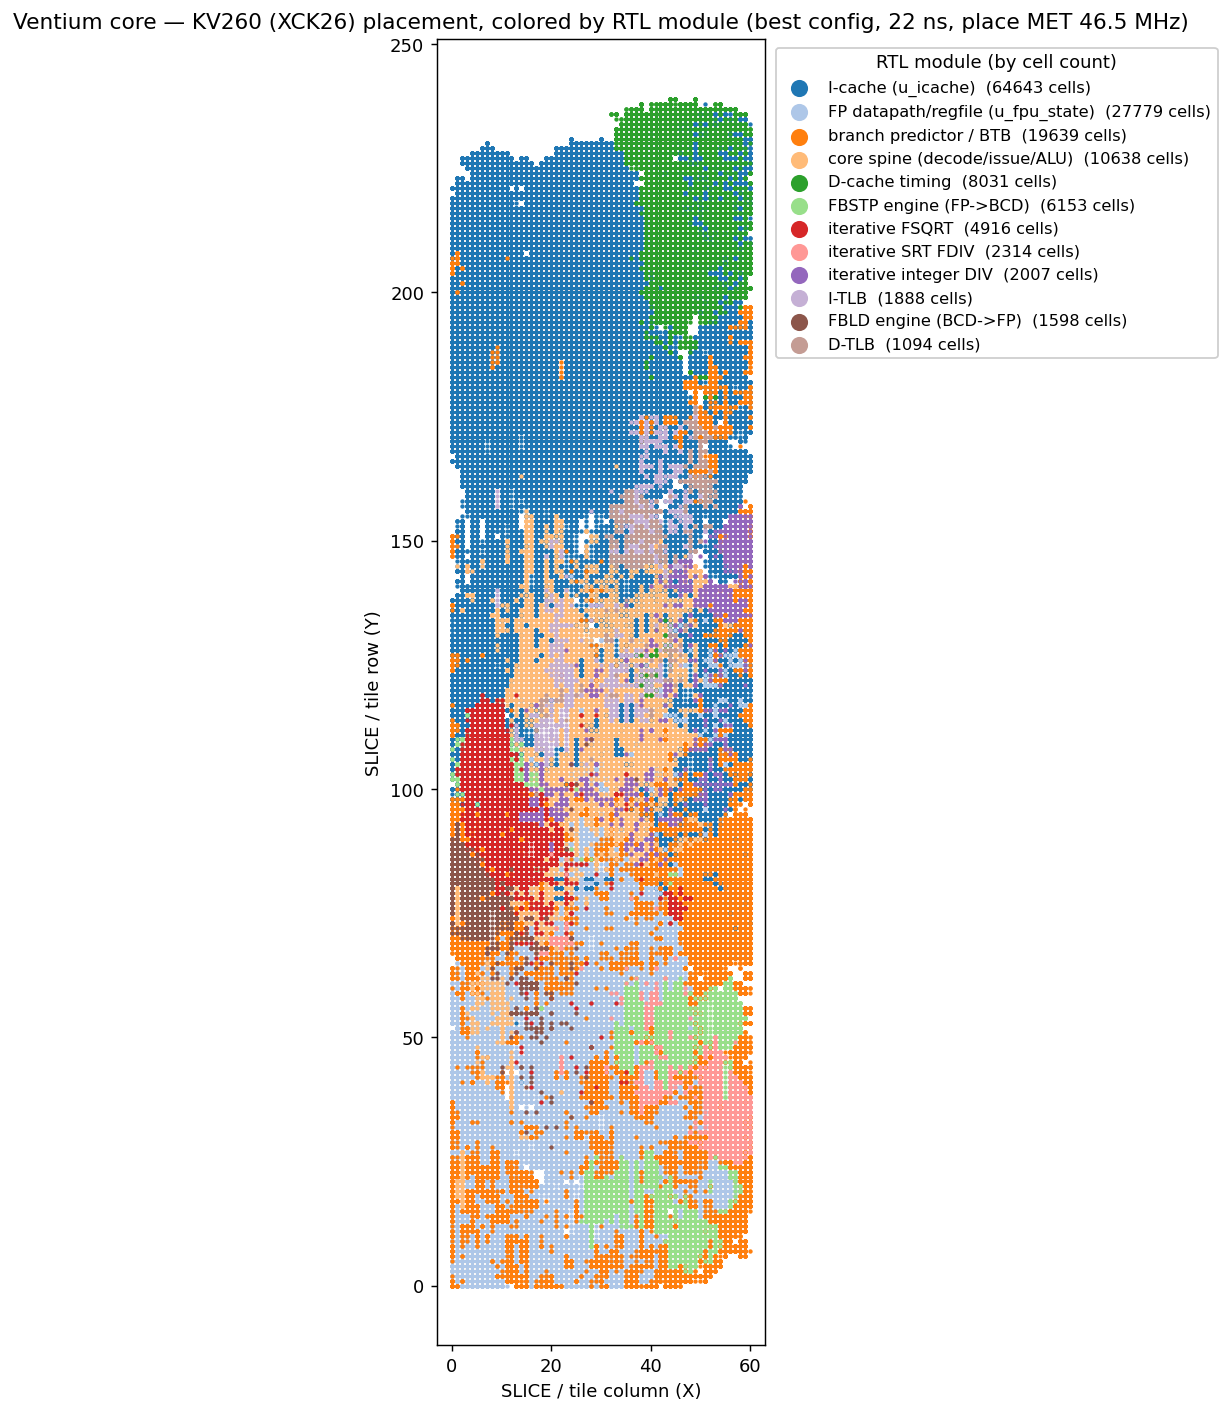
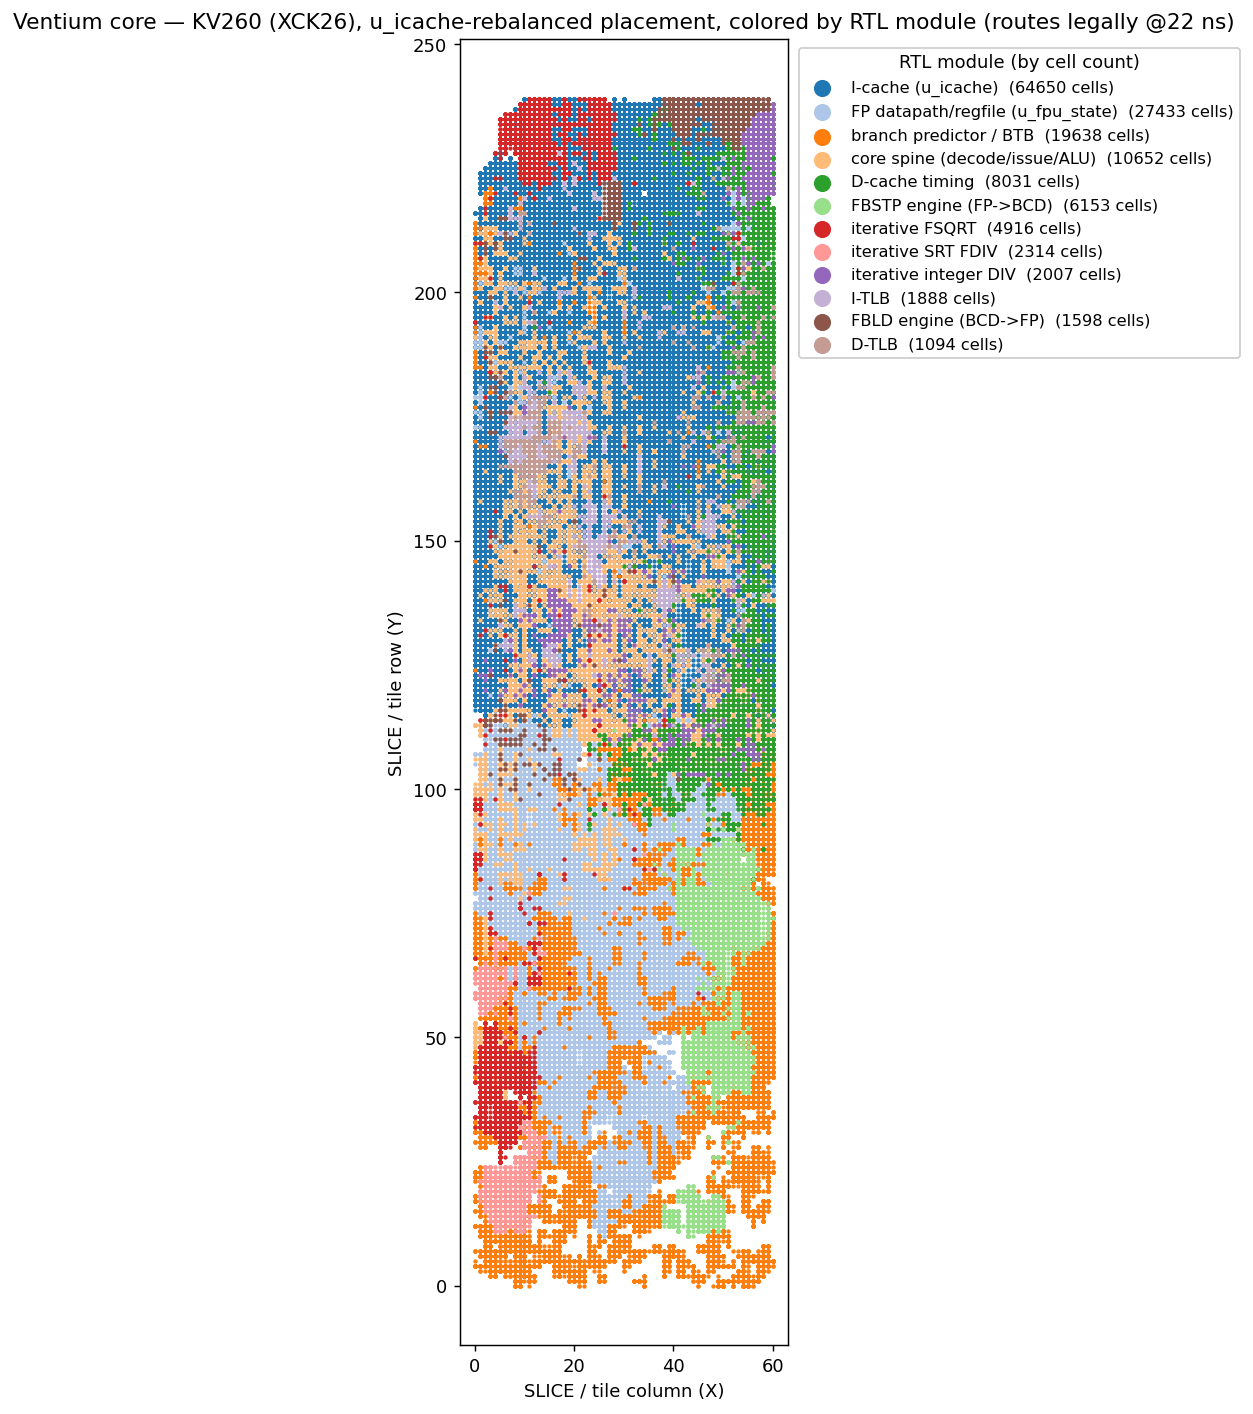
fpga: u_icache-rebalance floorplan result + device plots in README
The user's spatial idea, measured: a Pblock that forces the byte-window decode logic
(u_icache, the flatten artifact) to spread across the upper die cuts peak MUXF
congestion 63-65% -> 52-57% and PLACES MET at 22ns (46.5 MHz, 0 failing). But the
route stays congestion-limited (the router thrashes, overlaps oscillating 10<->35K) so
it was killed before a clean route -- floorplanning alone can't break the wall (the
added wirelength from spreading defeats the router). Confirms the real lever is the RTL
decode pipeline.

README: rebalanced device view (colored by module) + the baseline-vs-rebalanced
u_icache spread comparison plot; util table refreshed to the rebalanced place (90,083
LUTs / 76.9%); a floorplan bullet pointing at +VEN_DEC_PIPE (DEC_PIPE_DESIGN.md) as the
genuine 66 MHz lever. fpga/scripts/run_pblock_rebalance.tcl added.

Changed region(s): [[0.1545, 0.0, 1.0, 0.9646], [0.4016, 0.9646, 0.587, 0.9958], [0.0309, 0.0, 0.1236, 0.0311]]

diff --git a/README.md b/README.md
@@ -134,19 +134,28 @@ The core + FPU are fully synthesizable. Below is the **real Vivado placement** o
 the `core` (out-of-context) on the KV260's **XCK26** (Zynq UltraScale+ ZU5EV,
 `xck26-sfvc784-2LV-c`), with every placed leaf cell colored by its RTL module —
 you can see the physical clusters (I-cache, FP datapath, branch predictor, the
-iterative FP engines, the core spine, …).
+iterative FP engines, the core spine, …). This is the **u_icache-rebalanced
+floorplan** (a Pblock that spreads the byte-window decode logic across the upper
+die), which **places MET at 22 ns (46.5 MHz, 0 failing endpoints)**.
 
 ![Ventium core placed on the KV260, colored by RTL module](docs/fpga-device-view.png)
+
+The byte-window decode muxes (`u_icache`, the `-flatten_hierarchy rebuilt` instance
+that absorbs the spine's 12×32:1 alignment fabric) are the level-5 routing-congestion
+hotspot. Forcing them to spread (left) vs the default concentration (below) cuts the
+peak MUXF density **63–65 % → 52–57 %**:
+
+![u_icache placement: baseline concentration vs rebalanced spread](docs/fpga-rebalance-compare.png)
 
 **Best numbers so far** — OOC `core`, `+VTM_NO_DPI`, all configurations **bit-exact
 vs QEMU** (75/75 functional + the cycle micro-gates green):
 
 | Resource | Used | Available | Util |
 |---|---:|---:|---:|
-| **CLB LUTs** | **90,010** | 117,120 | **76.9 %** ✅ fits |
-| &nbsp;&nbsp;LUT as logic | 86,938 | 117,120 | 74.2 % |
+| **CLB LUTs** | **90,083** | 117,120 | **76.9 %** ✅ fits |
+| &nbsp;&nbsp;LUT as logic | 87,011 | 117,120 | 74.3 % |
 | &nbsp;&nbsp;LUT as memory (the 8 KB icache) | 3,072 | 57,600 | 5.3 % |
-| CLB Registers | 29,196 | 234,240 | 12.5 % |
+| CLB Registers | 28,864 | 234,240 | 12.3 % |
 | CARRY8 | 2,054 | 14,640 | 14.0 % |
 | DSP48E2 | 31 | 1,248 | 2.5 % |
 | Block RAM | 0 | 144 | 0 % |
@@ -169,6 +178,14 @@ vs QEMU** (75/75 functional + the cycle micro-gates green):
   tooling choice. The real levers are **RTL** (pipeline the decode window, the class of
   the validated `+VEN_IC_BRAM` fetch pipeline) or a lower-utilization device. Synth
   journey: 3.6 → 14.6 → 37.5 → 46 → 58 → 59.5 → 64.1 MHz.
+- **Floorplan (the device view above):** a **u_icache-rebalance Pblock** that forces
+  the byte-window decode logic to spread across the upper die cuts the peak MUXF
+  congestion **63–65 % → 52–57 %** and **places MET at 22 ns (46.5 MHz)** — but the
+  routing remains congestion-limited (the router thrashes), confirming floorplanning
+  alone cannot break the wall. The genuine fix is the in-progress **decode-stage
+  pipeline** (`+VEN_DEC_PIPE`, [`fpga/DEC_PIPE_DESIGN.md`](fpga/DEC_PIPE_DESIGN.md)):
+  a decoupled prefetch→D1→D2 byte queue that moves the 12×32:1 alignment muxes off the
+  combinational critical cone — the one RTL lever with a real shot at 66 MHz.
 - A **2-stage FP execute pipeline** (`+VEN_FP_PIPE`) and a **BTB-update pipeline**
   (`+VEN_BTB_PIPE`, independently removable) move FP and the branch predictor off
   the critical path while keeping **both FP cycle bands and the branch-mispredict